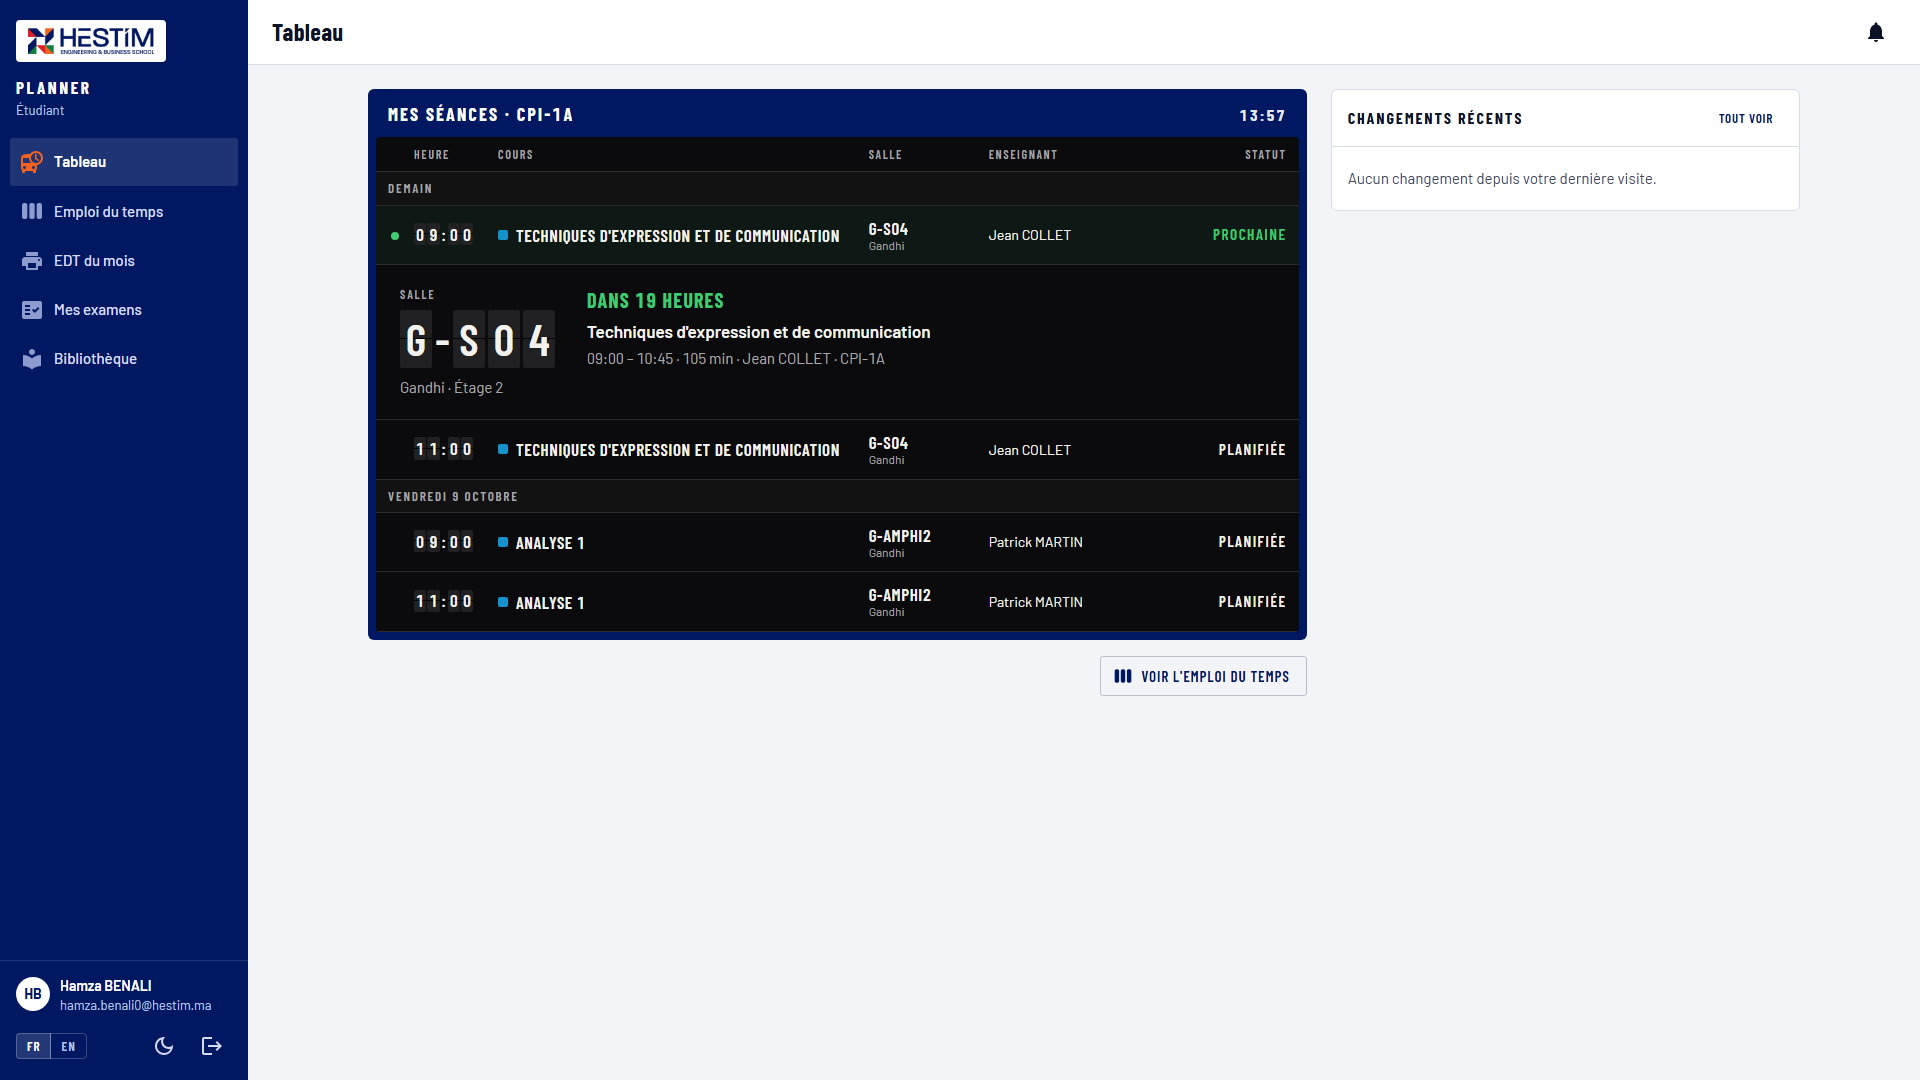
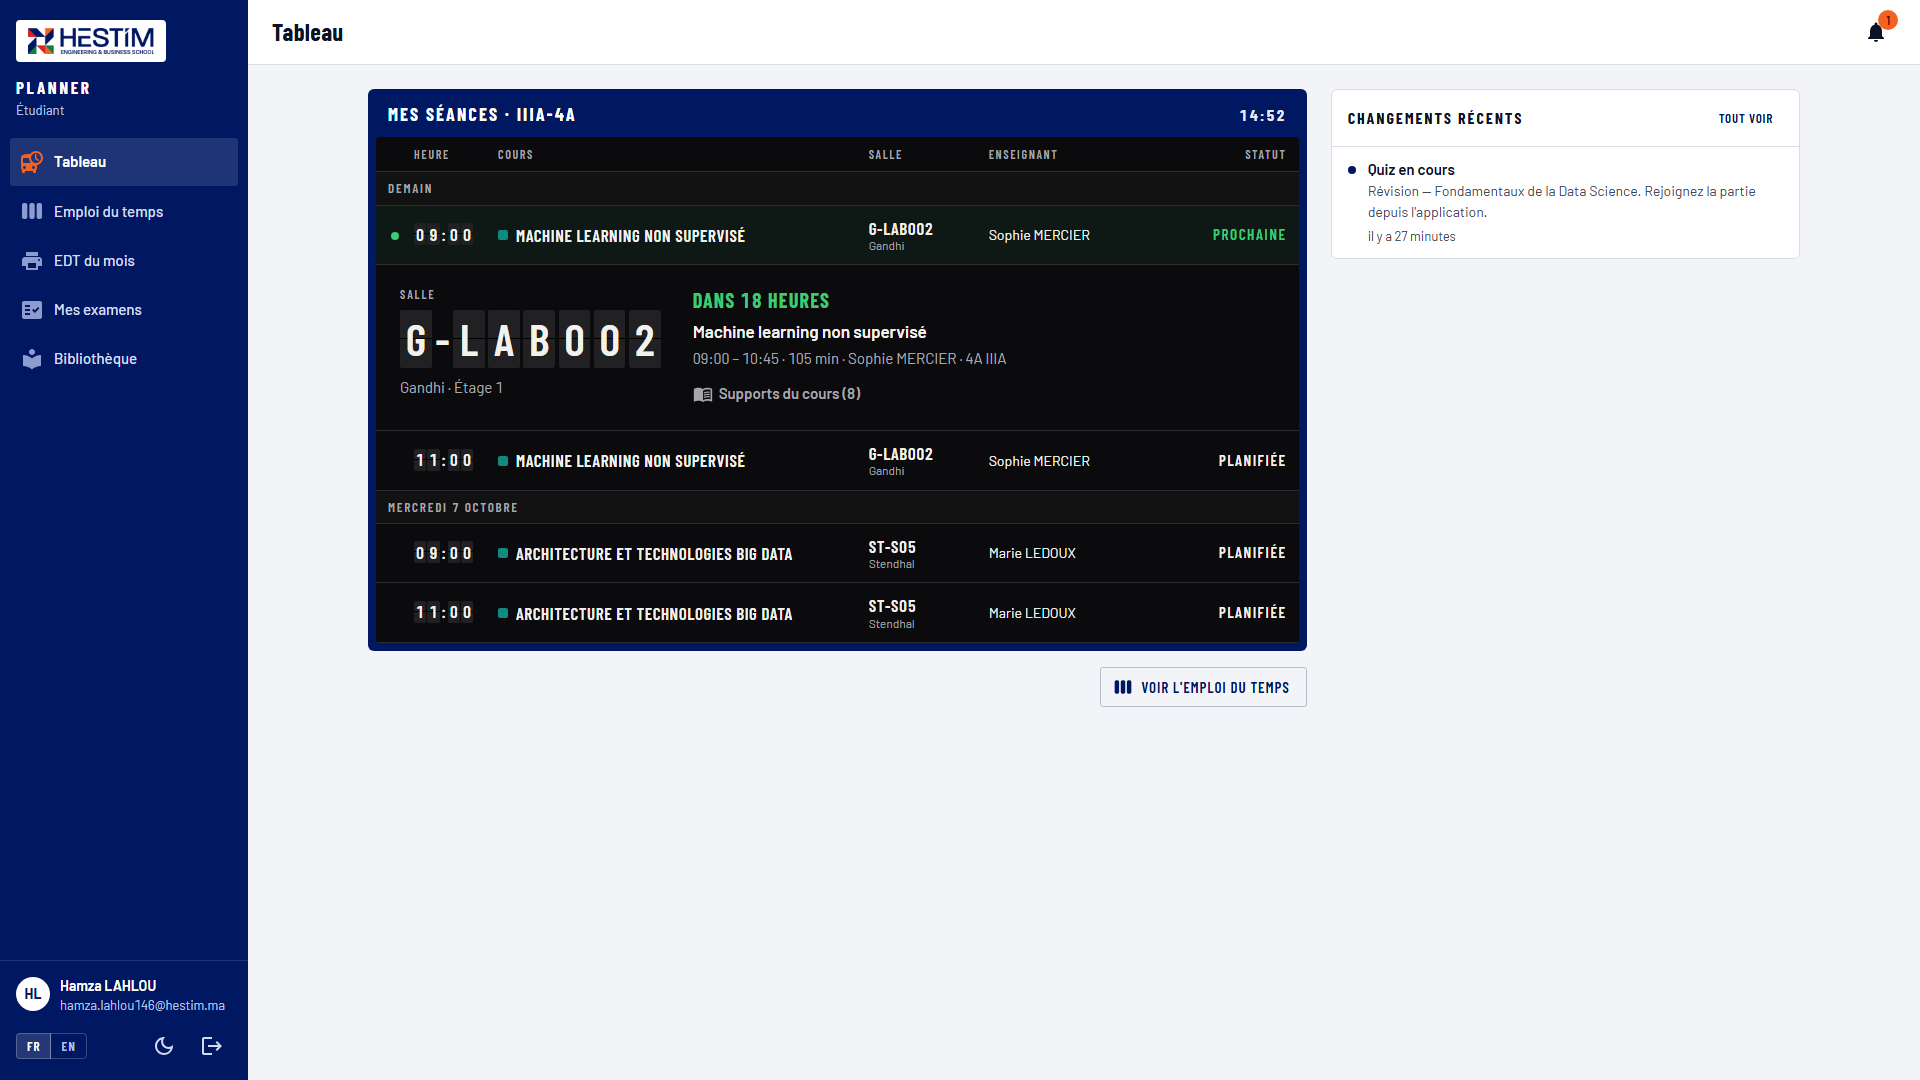
feat: ajouter la fonctionnalité de chargement des séances de l'étudiant et mise à jour des API

diff --git a/frontend/src/pages/dashboard/EtudiantDashboard.jsx b/frontend/src/pages/dashboard/EtudiantDashboard.jsx
@@ -5,10 +5,11 @@ import { Alert, Box, Button, Typography, useMediaQuery } from '@mui/material';
 import { ViewWeek } from '@mui/icons-material';
 import DashboardLayout from '../../components/layouts/DashboardLayout';
 import { useAuth } from '../../contexts/AuthContext';
-import { affectationAPI, etudiantAPI, notificationAPI } from '../../services/api';
+import { etudiantAPI, notificationAPI } from '../../services/api';
 import { DepartureBoard, SessionSpotlight } from '../../design-system/board';
 import ChangesList from '../../design-system/board/ChangesList';
-import { byStart, findSpotlight, toBoardSession, toLocalISODate } from '../../utils/session';
+import { byStart, findSpotlight, toBoardSession } from '../../utils/session';
+import { chargerMesSeances } from '../../utils/mesSeances';
 import { ds } from '../../design-system/tokens';
 import useLiveRefresh from '../../hooks/useLiveRefresh';
 import RetourSeanceCard from '../../components/planning/RetourSeanceCard';
@@ -51,14 +52,9 @@ export default function EtudiantDashboard() {
         return;
       }
 
-      const from = new Date();
-      const to = new Date(Date.now() + HORIZON_DAYS * 86400000);
-      const data = await affectationAPI.getByGroupe(idGroupe, {
-        date_from: toLocalISODate(from),
-        date_to: toLocalISODate(to),
-        limit: 200,
-      });
-      setSessions((data?.data || []).map(toBoardSession).sort(byStart));
+      // Séances du groupe ET des groupes parents (CM de la promotion), comme sur le mobile
+      const { seances } = await chargerMesSeances(new Date(), new Date(Date.now() + HORIZON_DAYS * 86400000));
+      setSessions(seances.map(toBoardSession).sort(byStart));
     } catch {
       setError(true);
     } finally {

diff --git a/frontend/src/utils/mesSeances.js b/frontend/src/utils/mesSeances.js
@@ -1,0 +1,31 @@
+import { emploiDuTempsAPI } from '../services/api';
+import { toLocalISODate } from './session';
+
+const TRANCHE_JOURS = 60; // l'API refuse plus de 62 jours par appel
+
+const plusJours = (date, n) => {
+  const d = new Date(date);
+  d.setDate(d.getDate() + n);
+  return d;
+};
+
+/**
+ * Séances de l'étudiant connecté entre deux dates : celles de ses groupes et de leurs groupes
+ * parents (un CM de promotion apparaît pour chaque TD), comme dans l'application mobile.
+ * Une longue période est demandée par tranches de 60 jours.
+ */
+export const chargerMesSeances = async (du, au) => {
+  const tranches = [];
+  for (let debut = new Date(du); debut <= au; debut = plusJours(debut, TRANCHE_JOURS + 1)) {
+    const fin = plusJours(debut, TRANCHE_JOURS) < au ? plusJours(debut, TRANCHE_JOURS) : au;
+    tranches.push(emploiDuTempsAPI.getMoi({ du: toLocalISODate(debut), au: toLocalISODate(fin) }));
+  }
+  const reponses = await Promise.all(tranches);
+  return {
+    groupes: reponses[0]?.groupes || [],
+    // La salle porte son campus ; le panneau affiche son nom sous la salle
+    seances: reponses
+      .flatMap((r) => r?.seances || [])
+      .map((a) => ({ ...a, salle: a.salle ? { ...a.salle, batiment: a.salle.batiment || a.salle.campus?.nom || null } : null })),
+  };
+};

diff --git a/frontend/src/pages/emploi-du-temps/EmploiDuTempsEtudiant.jsx b/frontend/src/pages/emploi-du-temps/EmploiDuTempsEtudiant.jsx
@@ -4,7 +4,7 @@ import { Alert, Button } from '@mui/material';
 import DashboardLayout from '../../components/layouts/DashboardLayout';
 import EnhancedTimetable from '../../components/emploi-du-temps/EnhancedTimetable';
 import TimetableExportMenu from '../../components/emploi-du-temps/TimetableExportMenu';
-import { affectationAPI, etudiantAPI } from '../../services/api';
+import { chargerMesSeances } from '../../utils/mesSeances';
 import { useAuth } from '../../contexts/AuthContext';
 
 export default function EmploiDuTempsEtudiant() {
@@ -17,10 +17,10 @@ export default function EmploiDuTempsEtudiant() {
     if (!user?.id_user) return;
     setError(false);
     try {
-      const etudiant = await etudiantAPI.getById(user.id_user);
-      if (!etudiant?.id_groupe) return;
-      const response = await affectationAPI.getByGroupe(etudiant.id_groupe, { limit: 1000 });
-      setAffectations(response?.data || []);
+      // Le semestre autour d'aujourd'hui : séances du groupe et des groupes parents (CM de promotion)
+      const aujourdhui = new Date();
+      const { seances } = await chargerMesSeances(new Date(aujourdhui.getTime() - 60 * 86400000), new Date(aujourdhui.getTime() + 180 * 86400000));
+      setAffectations(seances);
     } catch {
       setError(true);
     }

diff --git a/frontend/src/services/api.js b/frontend/src/services/api.js
@@ -402,6 +402,9 @@ export const conflitAPI = {
 
 // ==================== EMPLOIS DU TEMPS ====================
 export const emploiDuTempsAPI = {
+    // Étudiant connecté : séances de ses groupes ET de leurs parents (CM de la promotion),
+    // mutualisations comprises ; 62 jours au plus par appel (voir utils/mesSeances.js)
+    getMoi: ({ du, au }) => request(`/emplois-du-temps/moi?du=${du}&au=${au}`),
     getByEnseignant: (id, params) => {
         const query = new URLSearchParams(params).toString();
         return request(`/emplois-du-temps/enseignant/${id}${query ? `?${query}` : ''}`);
